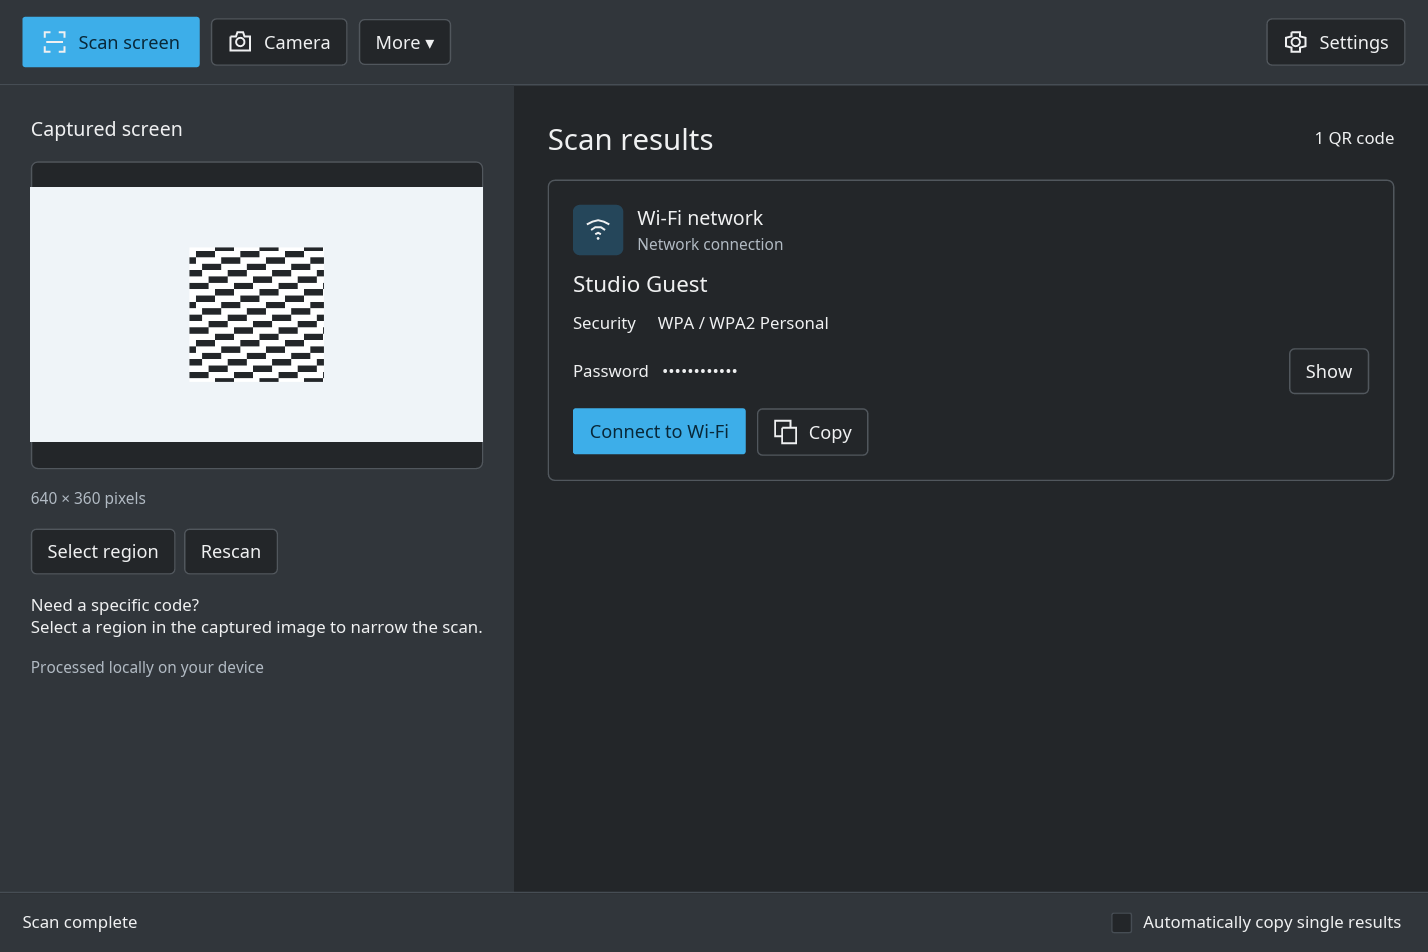
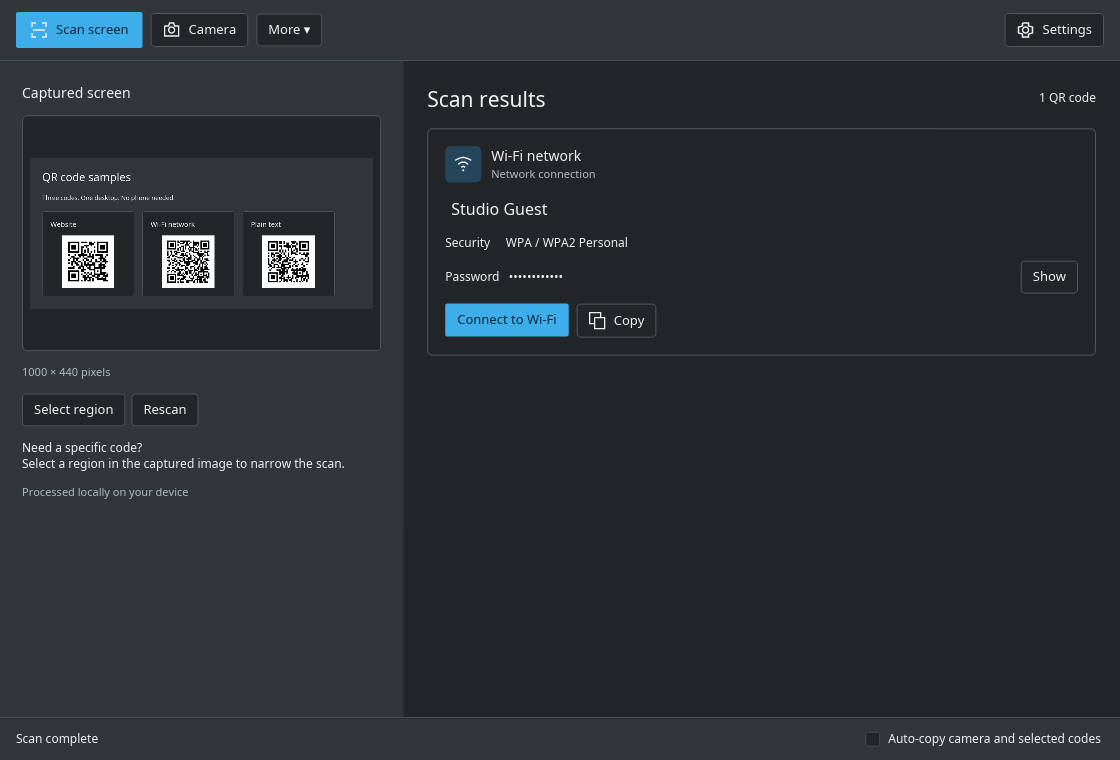
fix: keep window screen scans visible and refresh dark screenshots

diff --git a/src/app/overlay_tests.rs b/src/app/overlay_tests.rs
@@ -1204,50 +1204,38 @@ fn stale_or_duplicate_single_screen_completion_never_copies() {
 }
 
 #[test]
-fn app_button_screen_scan_uses_spatial_results_and_notification_mode() {
+fn app_button_screen_scan_retains_capture_and_results_in_window() {
     let mut app = app();
     app.state.host_available = true;
+    app.windowless = true; // A previous tray scan must not leak its mode.
     let window = window::Id::unique();
     app.state.window_ids.push(window);
     app.state.windows = 1;
     drop(app.update(Message::UserCommand(Command::ScanScreen)));
-    assert!(
-        app.windowless,
-        "Scan screen must use the same shortcut from the app button"
-    );
-    assert!(app.state.window_ids.is_empty());
+    assert!(!app.windowless, "the app button must use the window flow");
     drop(app.update(Message::WindowClosed(window)));
     let session = crate::jobs::JobId(app.state.session);
-    drop(app.update(Message::CaptureFinished(
-        session,
-        Ok(Some(Arc::new(crate::capture::Prepared::new(
-            image::DynamicImage::new_rgb8(20, 20),
-        )))),
-    )));
-    assert_eq!(app.pending_spatial, Some((session, 0)));
-    assert!(app.state.window_ids.is_empty());
-    let mut single = (*scan()).clone();
-    single.detections.truncate(1);
-    let mut copies = 0;
-    drop(app.spatial_finished_with_copy(
-        session,
-        0,
-        Ok(Arc::new(single)),
-        |app, text, session, index| {
-            app.copy_task_with(text, session, index, |_| {
-                copies += 1;
-                async { Ok(()) }
-            })
-        },
+    let image = Arc::new(crate::capture::Prepared::new(
+        image::DynamicImage::new_rgb8(20, 20),
     ));
+    drop(app.update(Message::CaptureFinished(session, Ok(Some(image.clone())))));
+    assert!(Arc::ptr_eq(app.screenshot.as_ref().unwrap(), &image));
+    assert!(app.pending_spatial.is_none());
+    assert_eq!(app.state.windows, 1, "the window reopens after capture");
+    let session = crate::jobs::JobId(app.state.session);
+    let task = app.update(Message::DecodeFinished(Arc::new(
+        crate::jobs::DecodeOutcome {
+            id: session,
+            result: Ok(scan().results.clone()),
+        },
+    )));
     assert_eq!(
-        copies, 1,
-        "the app button must use the persistent clipboard backend"
+        task.units(),
+        0,
+        "default window scan must not copy automatically"
     );
-    drop(app.update(Message::ClipboardFinished(session, 0, Ok(()))));
-    assert_eq!(
-        app.desktop.borrow().notification.as_ref().unwrap().title,
-        "QR code copied"
-    );
+    assert_eq!(app.state.results.len(), 1);
+    assert!(app.screenshot.is_some());
     assert!(app.overlay.is_none());
+    assert!(app.desktop.borrow().notification.is_none());
 }

diff --git a/src/jobs.rs b/src/jobs.rs
@@ -8,7 +8,7 @@ pub struct DecodeOutcome {
     pub result: anyhow::Result<Vec<QrResult>>,
 }
 struct Queue {
-    pending: Option<(JobId, Arc<image::GrayImage>)>,
+    pending: Option<(JobId, Arc<image::GrayImage>, bool)>,
     completed: Option<Arc<DecodeOutcome>>,
     generation: u64,
     stopped: bool,
@@ -74,7 +74,7 @@ impl Decoder {
             .spawn(move || {
                 let shared = worker_shared;
                 loop {
-                    let (id, image, generation) = {
+                    let (id, image, screen, generation) = {
                         let mut state = shared.queue.lock().expect("decoder queue");
                         while state.pending.is_none() && !state.stopped {
                             state = shared.ready.wait(state).expect("decoder queue");
@@ -82,10 +82,14 @@ impl Decoder {
                         if state.stopped {
                             break;
                         }
-                        let (id, image) = state.pending.take().expect("pending decode");
-                        (id, image, state.generation)
+                        let (id, image, screen) = state.pending.take().expect("pending decode");
+                        (id, image, screen, state.generation)
                     };
-                    let result = decode(&image);
+                    let result = if screen {
+                        crate::decode::decode_spatial(&image).map(|scan| scan.results)
+                    } else {
+                        decode(&image)
+                    };
                     let mut state = shared.queue.lock().expect("decoder queue");
                     while state.completed.is_some()
                         && state.generation == generation
@@ -110,8 +114,15 @@ impl Decoder {
     }
     /// GrayImage transfers ownership; Arc<GrayImage> shares pixels without copying.
     pub fn submit(&self, id: JobId, image: impl Into<Arc<image::GrayImage>>) {
+        self.submit_with_mode(id, image.into(), false);
+    }
+    /// Screen images use the same bounded worker with the robust screen retry.
+    pub fn submit_screen(&self, id: JobId, image: impl Into<Arc<image::GrayImage>>) {
+        self.submit_with_mode(id, image.into(), true);
+    }
+    fn submit_with_mode(&self, id: JobId, image: Arc<image::GrayImage>, screen: bool) {
         let mut state = self.shared.queue.lock().expect("decoder queue");
-        state.pending = Some((id, image.into()));
+        state.pending = Some((id, image, screen));
         self.shared.ready.notify_one();
     }
     pub fn cancel(&self) {

diff --git a/tests/spatial_decoding.rs b/tests/spatial_decoding.rs
@@ -105,6 +105,20 @@ fn mixed_version_screen_recovers_every_location_without_duplicate_highlights() {
         );
         expected.push((payload, tile_x, tile_y));
     }
+    let decoder = qr_scanner::jobs::Decoder::new();
+    let mut outcomes = decoder.subscribe();
+    decoder.submit_screen(qr_scanner::jobs::JobId(1), canvas.clone());
+    let outcome = tokio::runtime::Runtime::new().unwrap().block_on(async {
+        tokio::time::timeout(std::time::Duration::from_secs(10), outcomes.recv())
+            .await
+            .unwrap()
+            .unwrap()
+    });
+    assert_eq!(
+        outcome.result.as_ref().unwrap().len(),
+        6,
+        "window screen scans must use the robust retry too"
+    );
     let scan = decode::decode_spatial(&canvas).unwrap();
     assert_eq!(
         scan.results.len(),

diff --git a/src/app/mod.rs b/src/app/mod.rs
@@ -578,7 +578,7 @@ impl App {
                     && !self.capture_in_progress()
                     && self.pending_spatial.is_none()
                 {
-                    self.windowless = matches!(c, Command::ScanScreen);
+                    self.windowless = false;
                 }
                 self.command(c)
             }
@@ -708,7 +708,7 @@ impl App {
             Message::DecodeRequested(id, image) => {
                 if id.0 == self.state.session {
                     self.state.busy = true;
-                    self.decoder.submit(id, image);
+                    self.decoder.submit_screen(id, image);
                 }
                 Task::none()
             }

diff --git a/src/app/view.rs b/src/app/view.rs
@@ -299,6 +299,8 @@ fn source(app: &App) -> Element<'_, Message> {
                 .width(Length::Fill)
                 .height(if wide(app.width) { 220 } else { 140 }),
             )
+            .padding(8)
+            .clip(true)
             .style(style::card),
         );
         pane = pane.push(

diff --git a/docs/verification.md b/docs/verification.md
@@ -397,3 +397,22 @@ it failed with four results before the fix and passes with six results and
 correct per-code coordinates after it. Existing duplicate-placement and rotated
 binary/text tests also check that retries do not add duplicate highlights.
 No new live portal, camera or physical input acceptance is claimed.
+
+### Window scan flow and README refresh (2026-10-22)
+
+The main window's Scan screen button resets a previous tray scan's windowless
+mode, retains the captured screenshot, and displays results in the window.
+Tray/instance screen scans retain the single-code notification shortcut and
+multiple-code overlay. Window screenshot decoding uses the same two-pass screen
+algorithm through the existing bounded worker; camera frames retain one pass.
+The regression checks retained pixels, the reopened window, results, and absence
+of an automatic overlay or clipboard effect under default preferences. The mixed
+version fixture also exercises the window decoder queue and recovers all six.
+All 193 tests, clippy, and the release build pass.
+
+The README now leads with a dark native interface capture. Its sample desktop
+contains three real generated QR codes, and the preview has inset spacing inside
+its card. The new multiple-result and Wi-Fi images were rendered from the actual
+Iced view with tiny-skia, using safe in-memory fixtures and production masking.
+The temporary rendering harness was removed; no fixture switch ships in the app.
+These checks did not execute real screenshot, camera, clipboard, or Wi-Fi actions.

diff --git a/README.md b/README.md
@@ -16,7 +16,7 @@
     <a href="https://github.com/Wattos/qriff/issues">Report a bug</a>
   </p>
   <br />
-  <img src="docs/screenshots/native-multiple-light.png" width="1040" alt="QRiff’s desktop window showing website, Wi-Fi and text results, with Copy, Open URL and Connect to Wi-Fi actions" />
+  <img src="docs/screenshots/native-multiple-dark.png" width="1040" alt="QRiff’s desktop window showing website, Wi-Fi and text results, with Copy, Open URL and Connect to Wi-Fi actions" />
   <p><sub>Scan, read, and act. Native app screenshots use sample QR data.</sub></p>
 </div>
 
@@ -134,7 +134,9 @@ Then open the tray menu:
 | **Last scan** | Revisit the latest results and their actions |
 | **Open window** | Open the full scanner interface |
 
-Run `cargo run --release` to start with the main window instead. For a launcher,
+Run `cargo run --release` to start with the main window instead. Its **Scan
+screen** button keeps the captured image and results in the window; the tray
+menu uses the windowless copy-or-choose flow. For a launcher,
 icons, and the `qriff` command in your application menu, follow the
 [installation guide](docs/usage.md#build-and-run).
 

diff --git a/docs/usage.md b/docs/usage.md
@@ -66,7 +66,10 @@ cargo check
 cargo clippy --all-targets -- -D warnings
 ```
 
-A normal launch opens the main window. `--background` starts in the tray when a
+A normal launch opens the main window. **Scan screen** in that window retains
+the screenshot and displays its results there. **Scan screen** from the tray
+uses the windowless flow: copy a single code with a notification, or choose from
+multiple highlighted codes. `--background` starts in the tray when a
 tray host exists, otherwise it opens the window. Closing the last window keeps
 the application alive with a tray host, and exits without one. Losing the tray
 host while hidden opens a window. Open window and Quit are in the tray menu.
